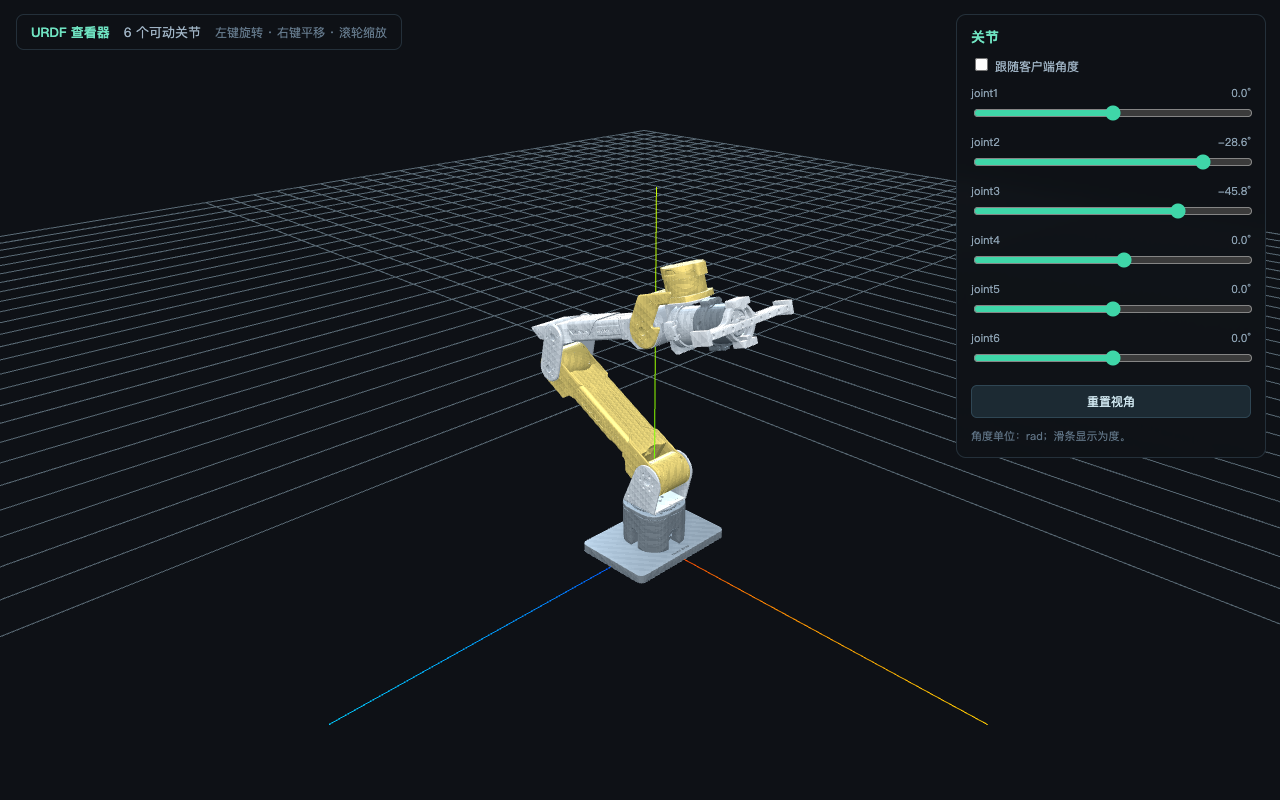
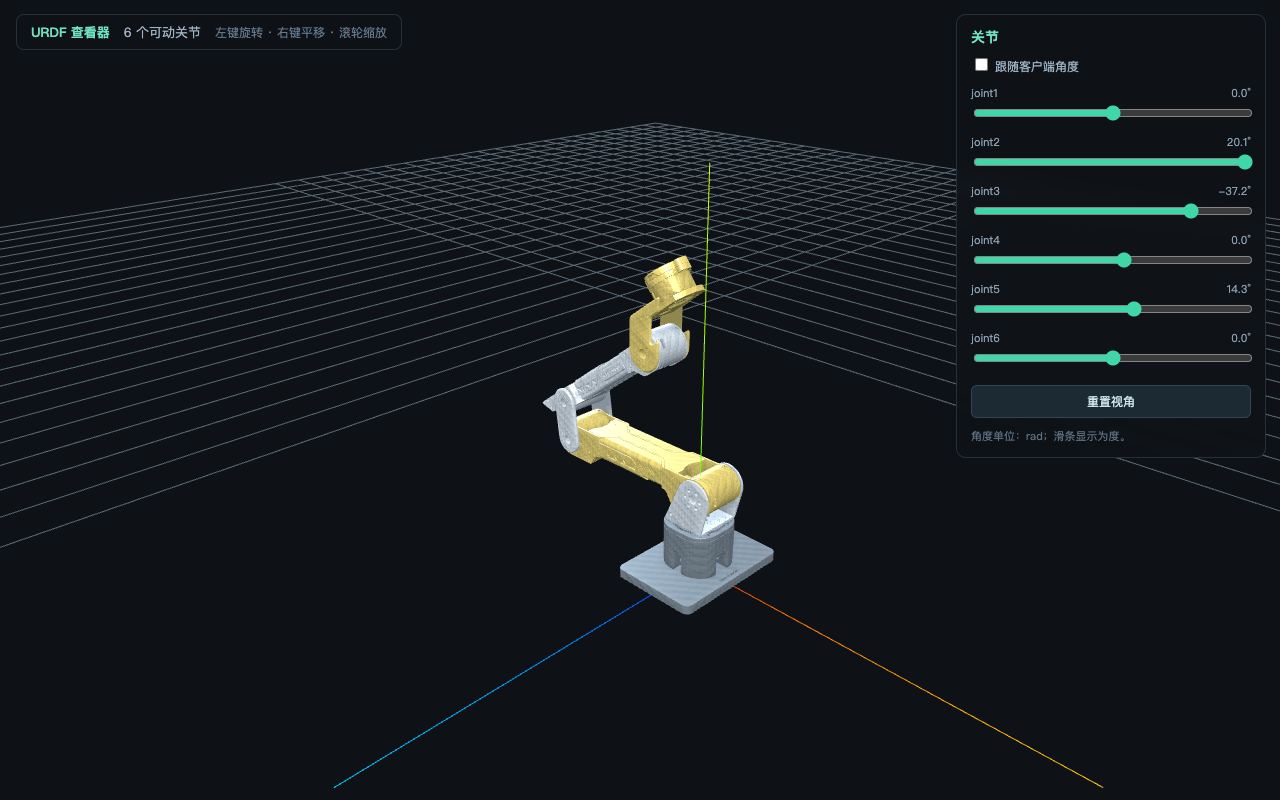
feat(pc): 默认实例换成 reBot B601-DM
Why: demo 只是占位，需要一个真实 6 轴模型验证查看器和真实导入链路
Verified: 默认 server 加载 models/rebot/model.urdf，6 关节/STL 渲染正常（docs/b601_lite.png）；无模型时回退 demo；49 用例全过
Left: reBot 资产不提交（CERN-OHL-W-2.0、约 20 MB），由 tools/fetch_rebot.py 本地生成

diff --git a/pc/web_viewer/tools/fetch_rebot.py b/pc/web_viewer/tools/fetch_rebot.py
@@ -1,0 +1,106 @@
+"""下载 reBot Arm B601-DM 并生成轻量模型（每个 link 只保留主 STL）。
+
+用法：
+    python3 tools/fetch_rebot.py            # 首次下载
+    python3 tools/fetch_rebot.py --force    # 重新生成
+
+产物：models/rebot/model.urdf + meshes/*.STL
+来源：https://github.com/Yang-Ci/ReBot_Arm_DigitalTwin_DM
+许可：CERN-OHL-W-2.0（随模型复制 LICENSE，不提交到本仓库）
+"""
+
+from __future__ import annotations
+
+import argparse
+import os
+import shutil
+import subprocess
+import tempfile
+import xml.etree.ElementTree as ET
+
+HERE = os.path.dirname(os.path.dirname(os.path.abspath(__file__)))
+OUT = os.path.join(HERE, "models", "rebot")
+REPO = "https://github.com/Yang-Ci/ReBot_Arm_DigitalTwin_DM.git"
+DESC = "reBotArm_ros2_DM/src/rebotarm_bringup/description"
+KEEP = {
+    "base_link": "base_link.STL",
+    "link1": "link1.STL",
+    "link2": "link2.STL",
+    "link3": "link3.STL",
+    "link4": "link4.STL",
+    "link5": "link5.STL",
+    "link6": "link6.STL",
+    "end_link": "gripper_base.stl",
+}
+
+
+def build(src: str, tmp_out: str) -> None:
+    os.makedirs(os.path.join(tmp_out, "meshes"))
+    tree = ET.parse(os.path.join(src, "urdf", "ReBot_Arm_DM.urdf"))
+    root = tree.getroot()
+    for j in list(root.findall("joint")):
+        if j.get("name") in ("finger_left", "finger_right"):
+            root.remove(j)
+    for link in list(root.findall("link")):
+        if link.get("name") in ("finger_left_link", "finger_right_link"):
+            root.remove(link)
+    for link in root.findall("link"):
+        name = link.get("name")
+        if name not in KEEP:
+            continue
+        fname = KEEP[name]
+        shutil.copyfile(os.path.join(src, "meshes", fname),
+                        os.path.join(tmp_out, "meshes", fname))
+        visuals = link.findall("visual")
+        chosen = None
+        for v in visuals:
+            m = v.find("geometry/mesh")
+            if m is not None and os.path.basename(m.get("filename")) == fname:
+                chosen = v
+                break
+        for v in visuals:
+            link.remove(v)
+        for c in link.findall("collision"):
+            link.remove(c)
+        if chosen is None:
+            chosen = ET.SubElement(link, "visual")
+            g = ET.SubElement(chosen, "geometry")
+            ET.SubElement(g, "mesh", filename=f"meshes/{fname}")
+        else:
+            link.append(chosen)
+            chosen.find("geometry/mesh").set("filename", f"meshes/{fname}")
+    tree.write(os.path.join(tmp_out, "model.urdf"), encoding="utf-8", xml_declaration=True)
+    license_src = os.path.join(src, "..", "..", "..", "..", "LICENSE")
+    if os.path.isfile(license_src):
+        shutil.copyfile(license_src, os.path.join(tmp_out, "LICENSE"))
+
+
+def main() -> int:
+    ap = argparse.ArgumentParser()
+    ap.add_argument("--force", action="store_true")
+    args = ap.parse_args()
+    if os.path.isdir(OUT) and not args.force:
+        print(f"已存在：{OUT}（--force 重新生成）")
+        return 0
+    tmp = tempfile.mkdtemp(prefix="rebot_src_")
+    tmp_out = tempfile.mkdtemp(prefix="rebot_lite_")
+    try:
+        print("克隆 B601-DM description（约 100 MB）…")
+        subprocess.check_call(["git", "clone", "--depth", "1", "--filter=blob:none",
+                               "--sparse", REPO, tmp])
+        subprocess.check_call(["git", "-C", tmp, "sparse-checkout", "set", DESC])
+        src = os.path.join(tmp, DESC)
+        build(src, tmp_out)
+        if os.path.isdir(OUT):
+            shutil.rmtree(OUT)
+        shutil.move(tmp_out, OUT)
+    finally:
+        shutil.rmtree(tmp, ignore_errors=True)
+        shutil.rmtree(tmp_out, ignore_errors=True)
+    print(f"完成：{OUT}")
+    print("启动：python3 server.py --open")
+    return 0
+
+
+if __name__ == "__main__":
+    raise SystemExit(main())

diff --git a/pc/web_viewer/server.py b/pc/web_viewer/server.py
@@ -126,7 +126,9 @@ def find_urdf(model_dir: str) -> str:
 def main() -> int:
     global MODEL_DIR, URDF_REL
     ap = argparse.ArgumentParser()
-    ap.add_argument("--model", default=os.path.join(WEB_DIR, "models", "demo"))
+    rebot_model = os.path.join(WEB_DIR, "models", "rebot")
+    demo = os.path.join(WEB_DIR, "models", "demo")
+    ap.add_argument("--model", default=rebot_model if os.path.isdir(rebot_model) else demo)
     ap.add_argument("--urdf")
     ap.add_argument("--port", type=int, default=8765)
     ap.add_argument("--open", action="store_true")

diff --git a/pc/client_app.py b/pc/client_app.py
@@ -33,7 +33,9 @@ from mock_broker import MockBroker
 from usb_can_damiao import Damiao
 
 HERE = os.path.dirname(os.path.abspath(__file__))
-WEB_MODEL = os.path.join(HERE, "web_viewer", "models", "demo")
+_REBOT = os.path.join(HERE, "web_viewer", "models", "rebot")
+_DEMO = os.path.join(HERE, "web_viewer", "models", "demo")
+WEB_MODEL = _REBOT if os.path.isdir(_REBOT) else _DEMO
 
 
 class State:

diff --git a/pc/web_viewer/README.md b/pc/web_viewer/README.md
@@ -3,7 +3,9 @@
 一个本地网页查看器：拖拽旋转、右键平移、滚轮缩放，按 URDF 的关节树摆姿态。
 不依赖 ROS，不依赖 npm 构建；three.js / URDFLoader / OrbitControls 已放在 `lib/`。
 
-## 快速开始（自带 demo）
+## 快速开始
+
+实例模型已换成 **reBot Arm B601-DM**（6 轴、STL）：
 
 ```bash
 cd pc/web_viewer
@@ -11,7 +13,16 @@ python3 server.py --open
 # 或双击 run_viewer.command
 ```
 
-demo 是 6 轴简化臂（box/cylinder，无外部 mesh），用于确认页面和交互正常。
+模型来自 B601 的 `description/`，只保留每个 link 的主 STL（8 个，约 20 MB），
+不是仓库提交内容；`models/rebot/` 已在 `models/.gitignore` 中忽略。
+
+新 clone 后若没有该目录，先运行：
+
+```bash
+python3 tools/fetch_rebot.py
+```
+
+没有 reBot 目录时会自动回退到 `models/demo`（简化 box/cylinder 臂）。
 
 ## 接真实模型
 
@@ -55,6 +66,7 @@ curl -X POST -H 'Content-Type: application/json' \
 
 B601 模型来源：<https://github.com/Yang-Ci/ReBot_Arm_DigitalTwin_DM>，
 CERN-OHL-W-2.0；本仓库不包含它的 STL，只保留截图。
+`models/rebot/` 由 `tools/fetch_rebot.py` 本地生成，不提交。
 
 ## 已知限制
 
